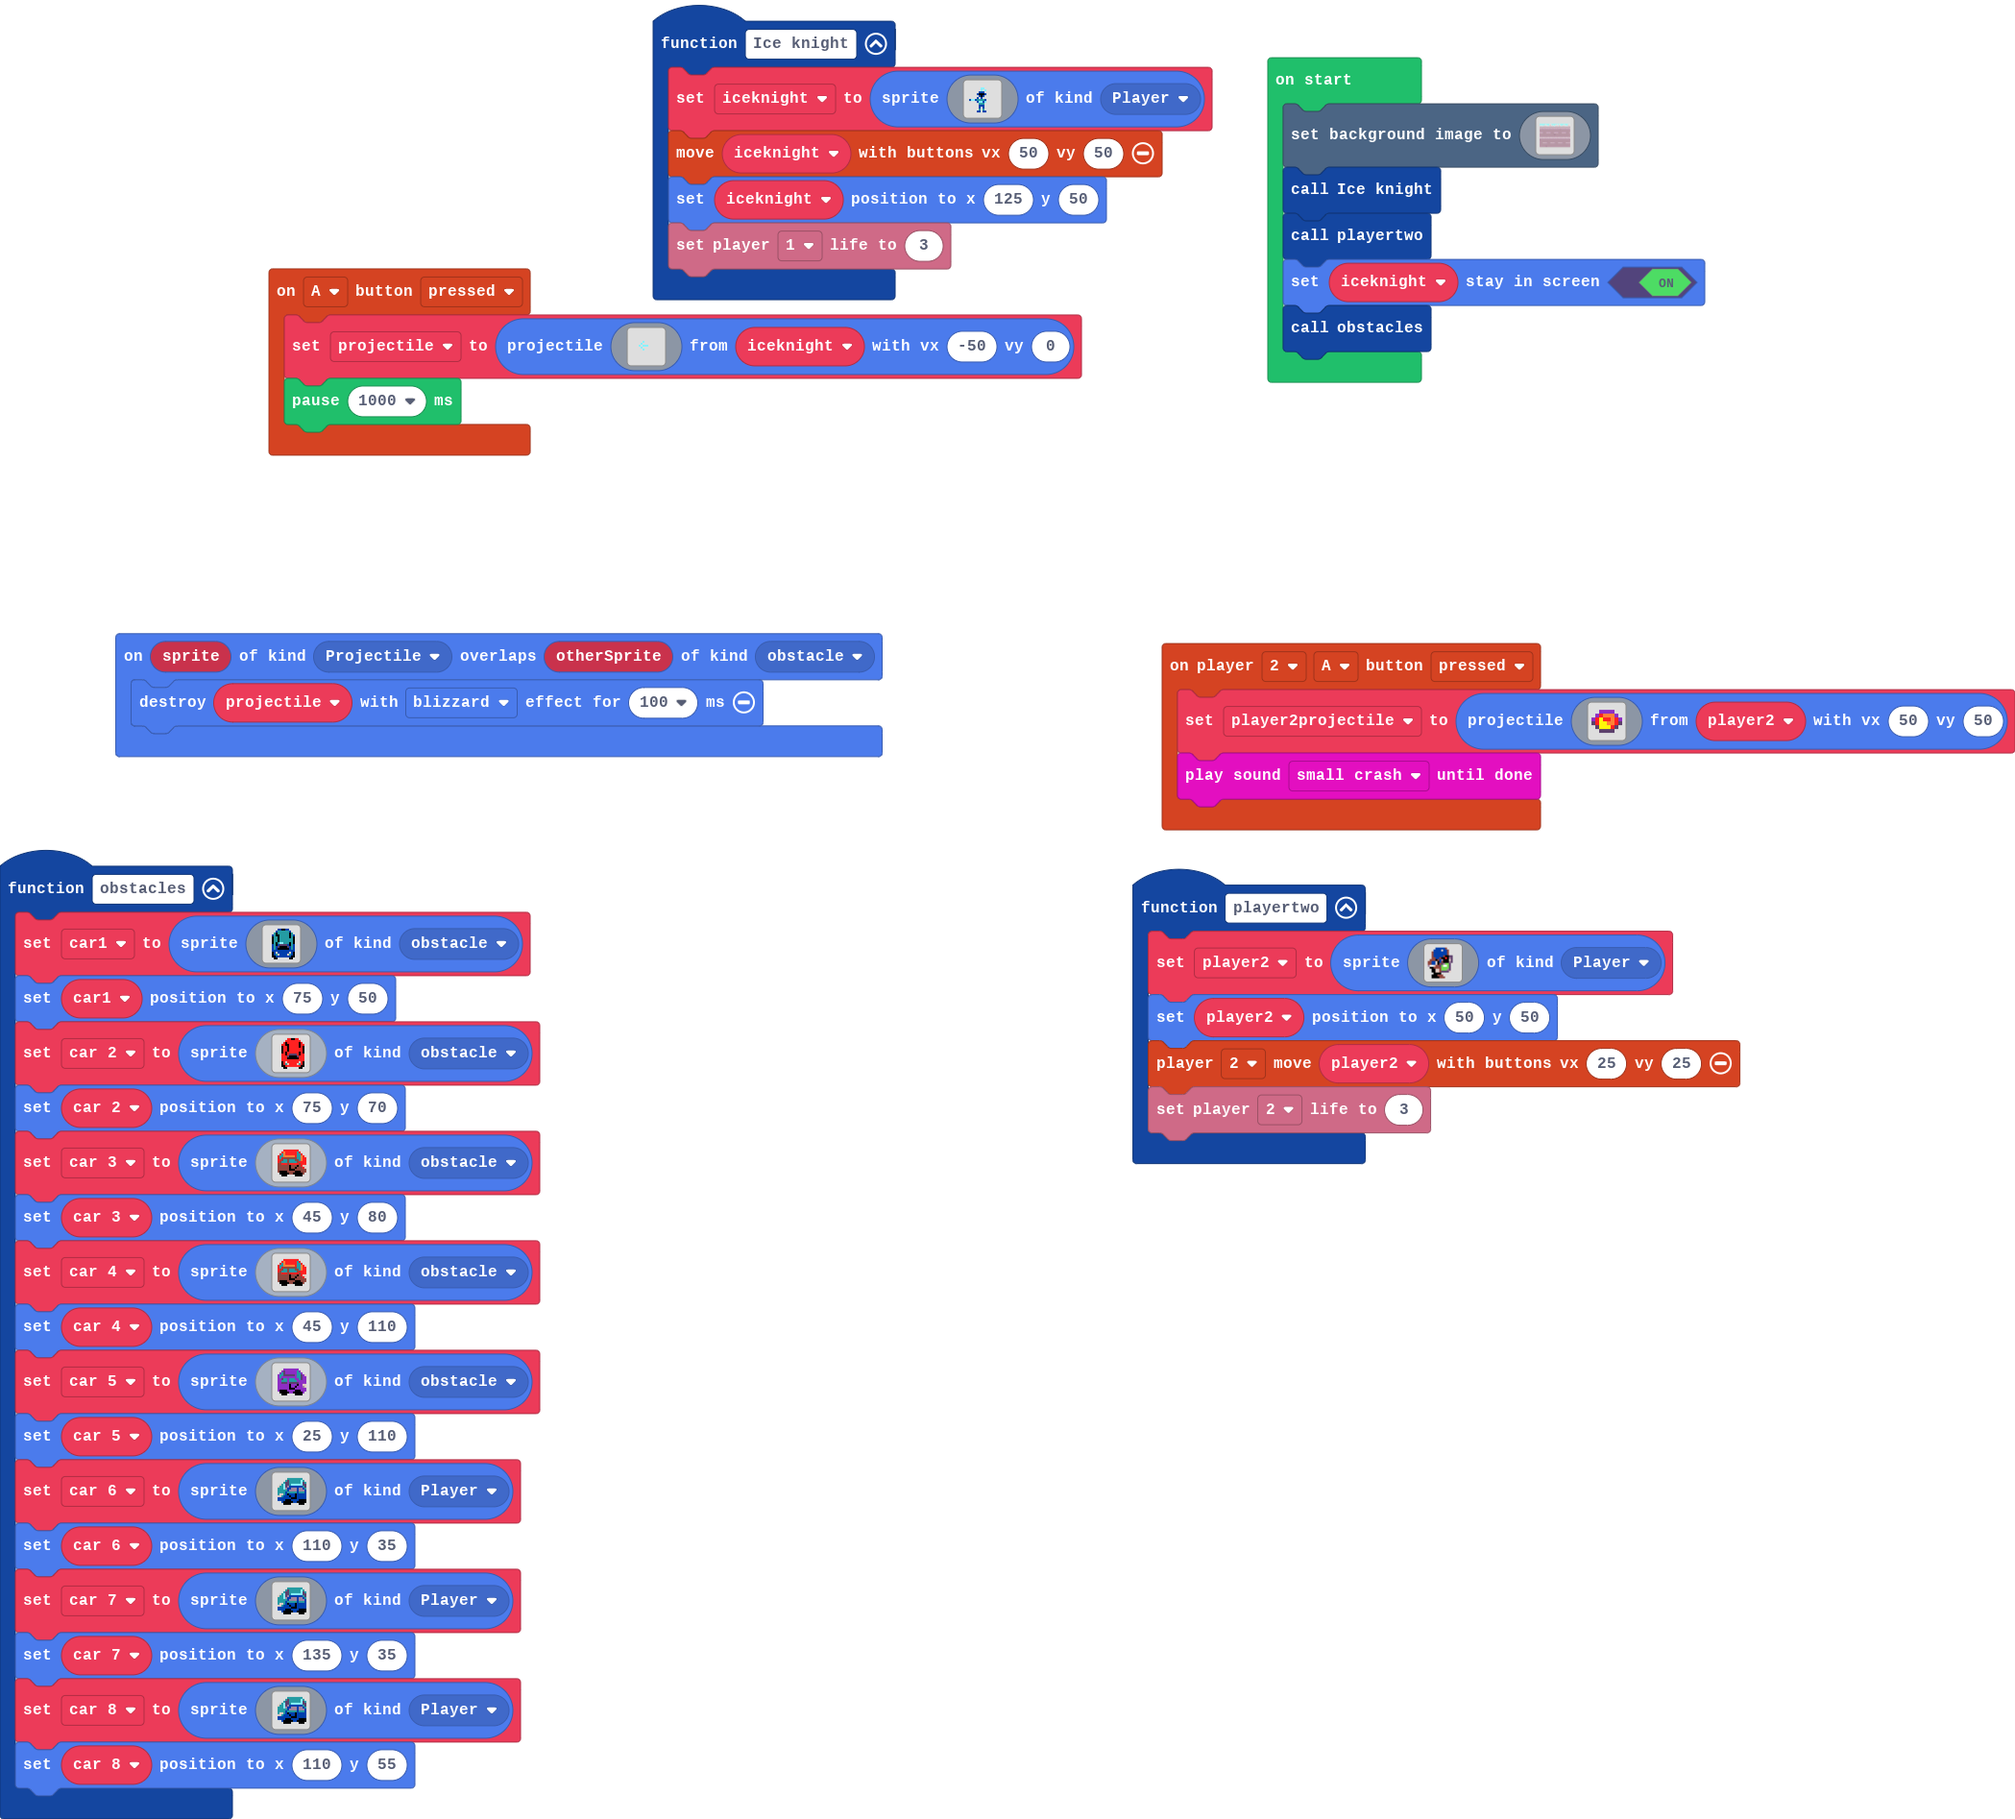
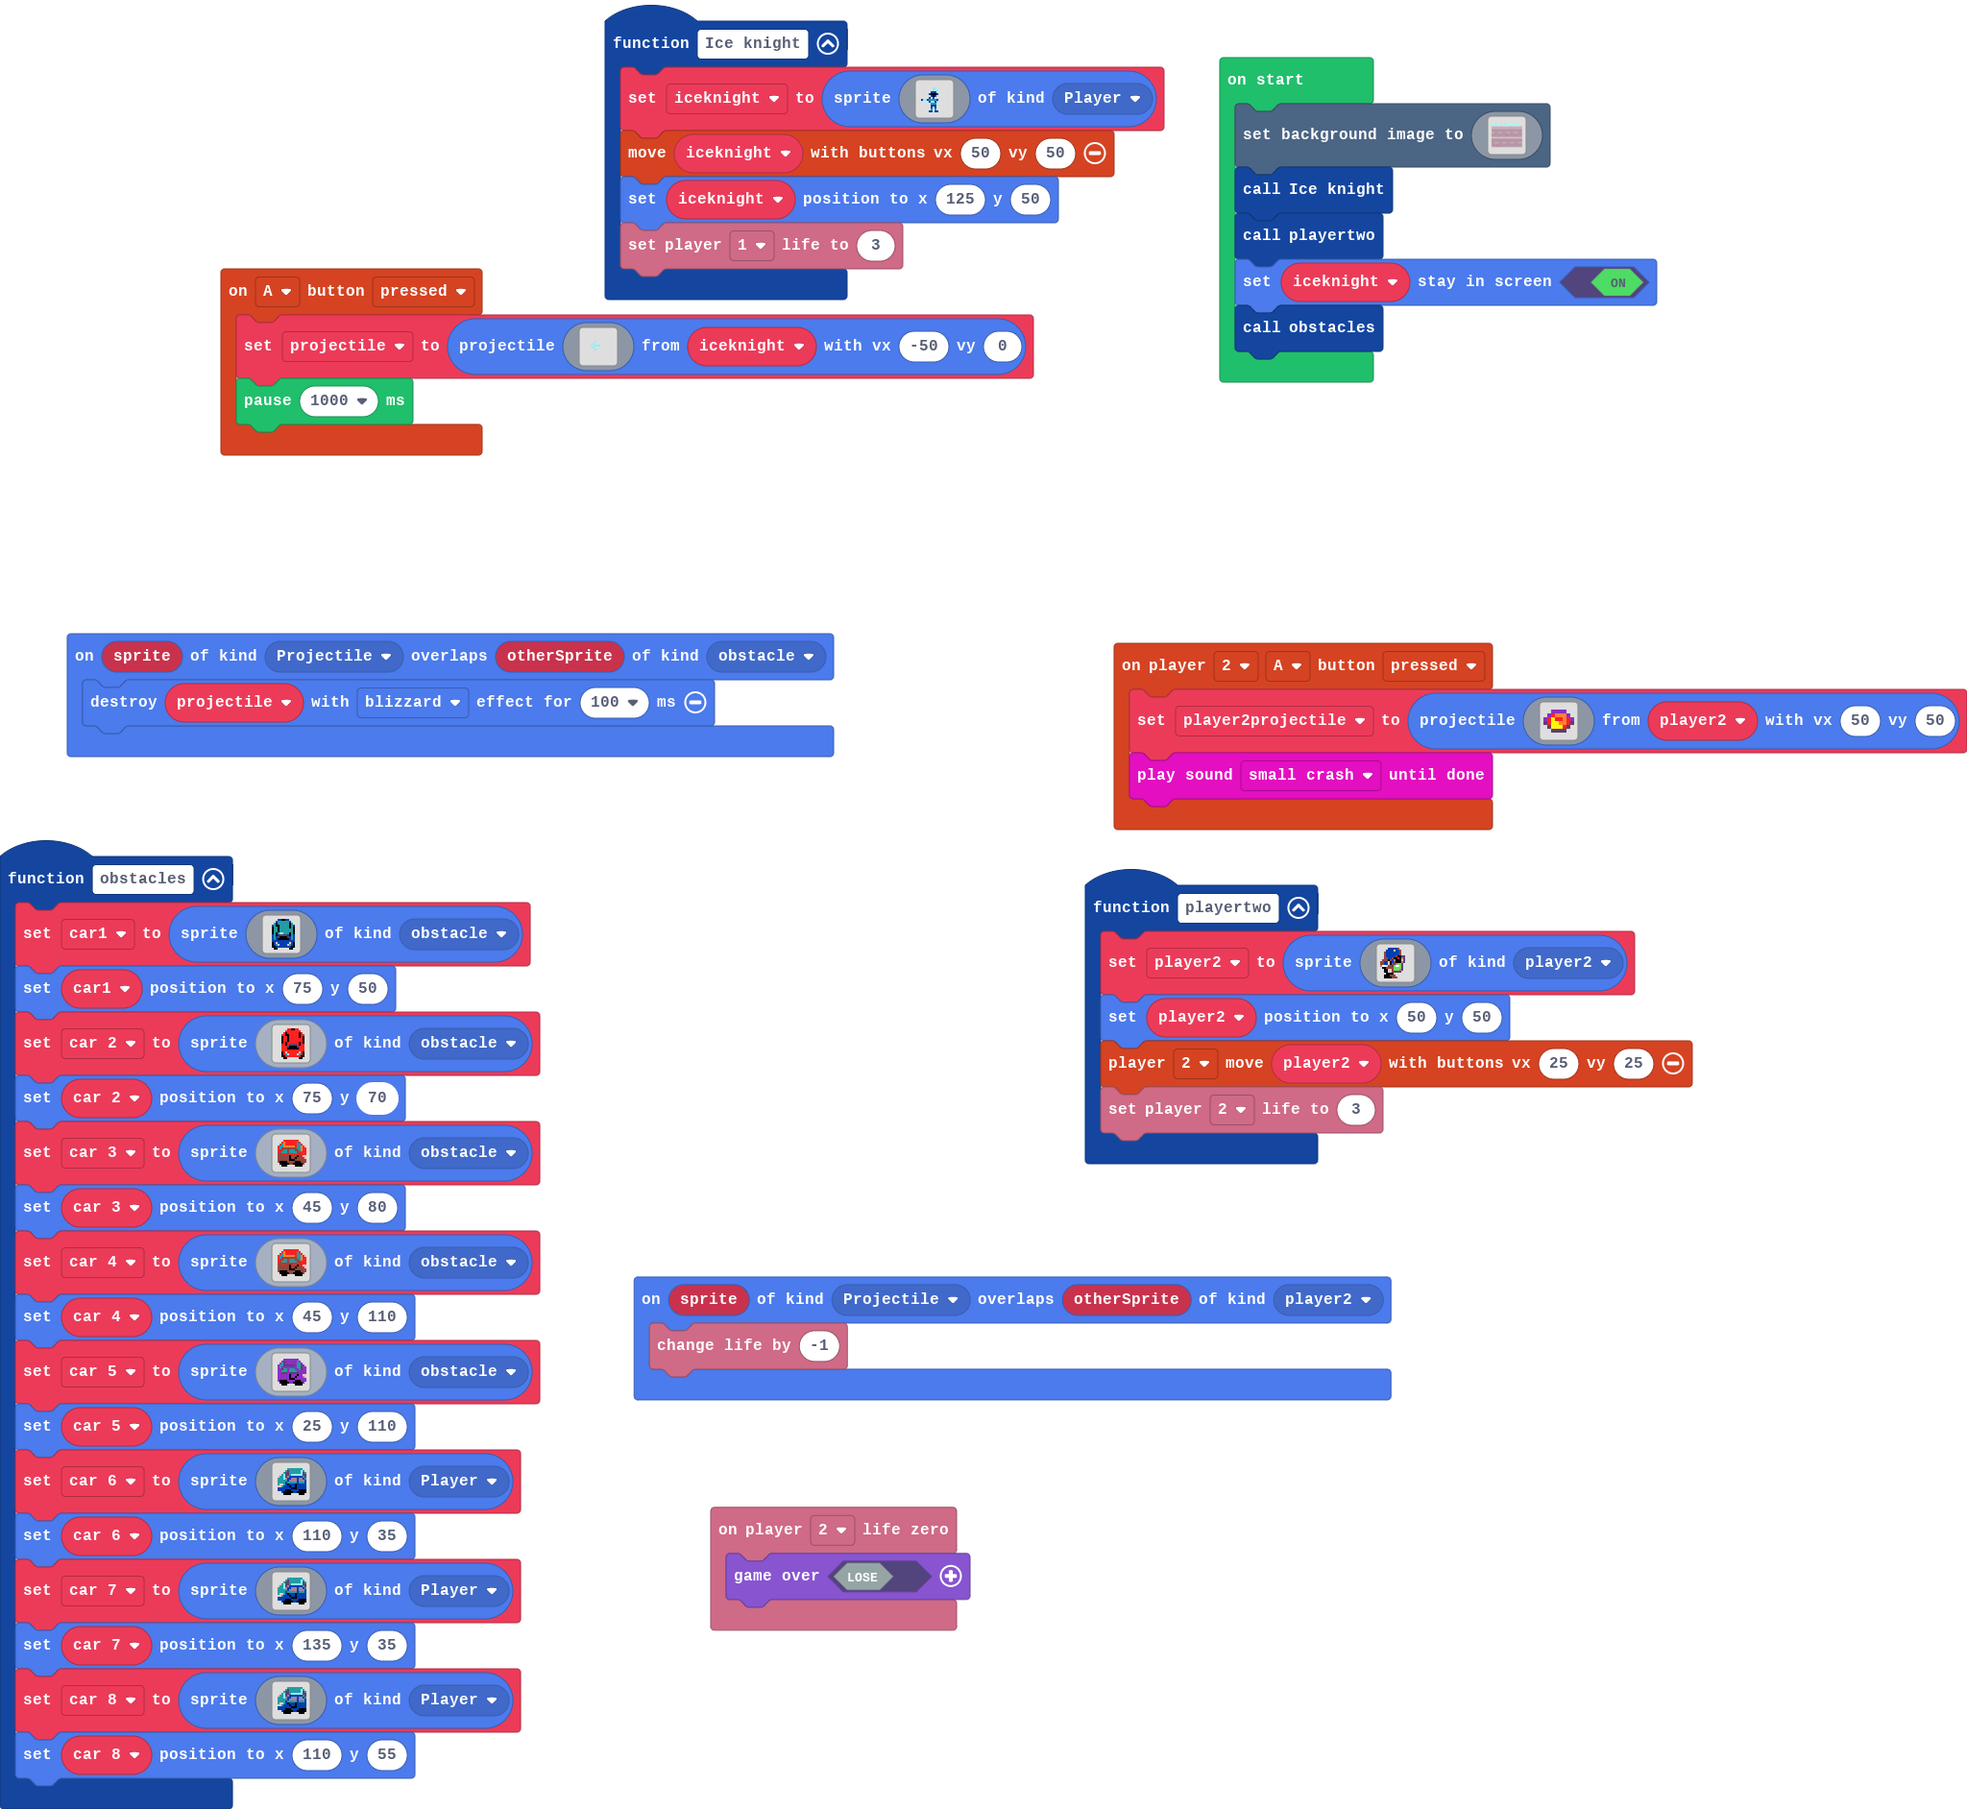
Update main.blocks, main.ts

diff --git a/main.ts b/main.ts
@@ -1,5 +1,6 @@
 namespace SpriteKind {
     export const obstacle = SpriteKind.create()
+    export const player2 = SpriteKind.create()
 }
 function playertwo () {
     player2 = sprites.create(img`
@@ -19,7 +20,7 @@ function playertwo () {
         . . . f f f f . . . . . . . . . 
         . . f f f e e e . . . . . . . . 
         . . f f f f e e e . . . . . . . 
-        `, SpriteKind.Player)
+        `, SpriteKind.player2)
     player2.setPosition(50, 50)
     controller.player2.moveSprite(player2, 25, 25)
     info.player2.setLife(3)
@@ -82,6 +83,9 @@ function Ice_knight () {
     iceknight.setPosition(125, 50)
     info.player1.setLife(3)
 }
+info.player2.onLifeZero(function () {
+    game.over(false)
+})
 function obstacles () {
     car1 = sprites.create(img`
         . . . . . . 8 8 f f 8 8 . . . . 
@@ -236,6 +240,9 @@ function obstacles () {
         `, SpriteKind.Player)
     car_8.setPosition(110, 55)
 }
+sprites.onOverlap(SpriteKind.Projectile, SpriteKind.player2, function (sprite, otherSprite) {
+    info.changeLifeBy(-1)
+})
 let car_8: Sprite = null
 let car_7: Sprite = null
 let car_6: Sprite = null
